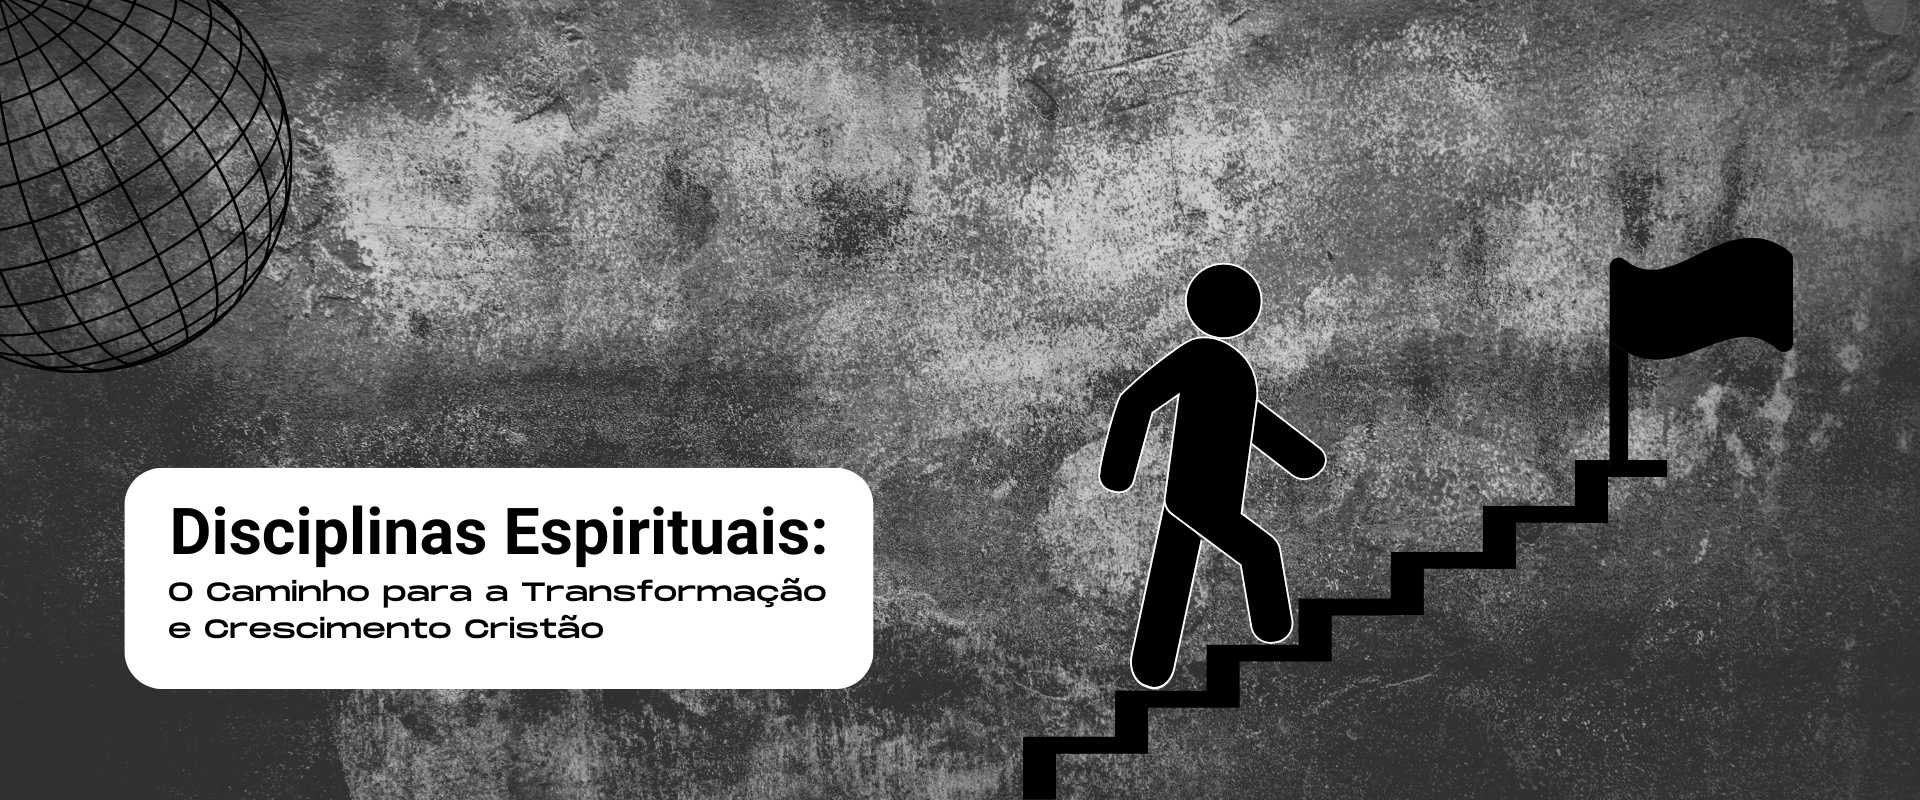
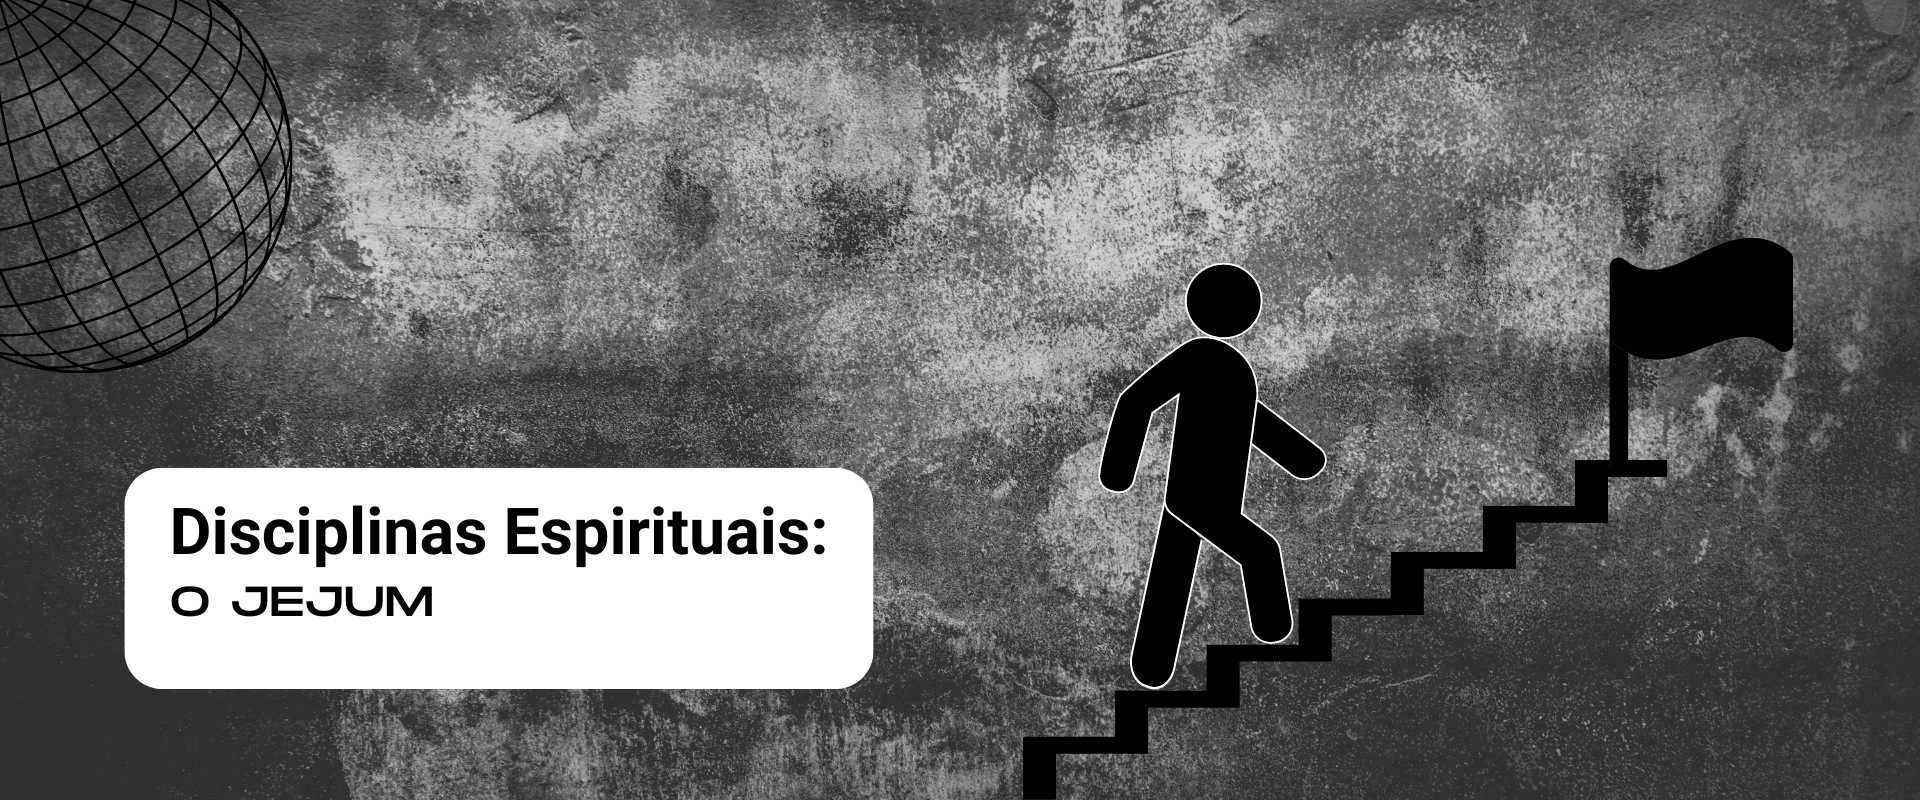
commit

Changed region(s): [[0.0938, 0.7188, 0.4375, 0.8125]]

diff --git a/dsp1/index.html b/dsp1/index.html
@@ -3,7 +3,7 @@
 <head>
     <meta charset="UTF-8">
     <meta name="viewport" content="width=device-width, initial-scale=1.0">
-    <title>Lição - 1</title>
+    <title>Lição - 3</title>
     <link rel="shortcut icon" href="../imagens/coracao.png" type="image/x-icon">
     <link rel="stylesheet" href="../stylemat.css">
 </head>
@@ -12,50 +12,10 @@
     <main class="mat">
         <div class="box-ancora-retorn"><a href="../materiais.html" class="ancora-voltar">&lt; Retornar</a></div>
         <div class="breaking"></div>
-        <h1 style="text-align: center;" class="mavie">Disciplinas Espirituais: O Caminho para a Transformação e Crescimento Cristão</h1>
+        <h1 style="text-align: center;" class="mavie">Disciplinas Espirituais: Jejum</h1>
         <h3 style="text-align: center;">16/09/2024</h3>
         <div class="box-img-material"><img src="arteDSP-1.jpg" alt="a" class="img-material"></div>
-        <p class="conteudo">
-            <h1 class="titulo">1 - Introdução</h1>
-        <p class="texto">
-            A superficialidade é maldição de nosso tempo. A doutrina da satisfação instantânea é, antes de tudo, um problema espiritual. 
-            A necessidade urgente hoje não é de um maior número de pessoas inteligentes, ou dotadas, mas de pessoas profundas. As Disciplinas 
-            da vida espiritual convidam-nos a passar do viver na superfície para o viver nas profundezas.
-        </p>
-        <p class="texto">
-            As Disciplinas Espirituais ou os Meios da Graça são os meios que Deus usa para nossa santificação. Para haver crescimento espiritual é 
-            necessário exercitarmos nosso espírito à conformidade do caráter de Jesus Cristo, nosso modelo.
-        </p>
-        <p class="texto">
-            Antes de mais nada, é importante entender que a disciplina não é um castigo e nem precisa ser um suplício. Afinal, quantas pessoas 
-            têm sido extremamente disciplinadas quanto à sua vida profissional, a fim de realizar seus objetivos particulares e de negócios? 
-            E por que boa parte dos cristãos encontram grande dificuldade para se esmerar em sua vida com Deus? Simples: a luta contra carne 
-            continua por aqui! Saiba, porém, que as Disciplinas Espirituais são um meio de graça que o Senhor nos deixou para crescermos em 
-            nosso relacionamento com Ele.
-        </p>
-        <p class="texto">
-            Na intenção de Deus, as Disciplinas espirituais são para seres humanos comuns: pessoas que têm empregos, que cuidam dos filhos, 
-            que lavam pratos e cortam grama. Na realidade, as Disciplinas são mais bem exercidas no meio de nossas atividades normais diárias. 
-            Se elas devem ter qualquer efeito transformador, o efeito deve encontrar-se nas conjunturas comuns da vida humana: em nossos 
-            relacionamentos com o marido ou com a esposa, com nossos irmãos e irmãs, ou com nossos amigos e vizinhos.
-        </p>
-        <p class="texto">
-            Ao tratarmos das disciplinas espirituais, não nos limitaremos a falar apenas sobre o que podemos fazer para desenvolver nosso espírito, 
-            mas sim tudo aquilo que rege as diversas áreas da nossa vida, como as finanças, a saúde, a parte profissional e também no que diz respeito 
-            ao nosso convívio familiar.
-        </p>
-        <p class="texto">
-            Isso quer dizer que disciplinas espirituais vão muito além do que simples práticas diárias nessa área. Por exemplo, sempre que pagamos as 
-            contas no prazo, estamos cumprindo com o compromisso ao qual nos dispomos. Como quando chegamos no horário estipulado ao nosso trabalho. 
-            Situações como essas mostram que somos responsáveis e que nos importamos com aquilo. Do mesmo modo, se Cristo nos deu uma nova forma de 
-            viver, temos que estar aptos para aceitar o desenvolvimento do Espírito Santo em nosso caráter.
-        </p>
-        <p class="texto">
-            Esse é o processo de metanóia do nosso homem interior que, ao ser guiado pela Palavra, começa agindo no espírito e depois no corpo e alma. 
-            Desta forma, se desprezamos a importância das disciplinas espirituais, ficamos impotentes para cumprir os propósitos que foram designados por 
-            Deus. É o Seu chamado para nós que permite experimentarmos uma vida abundante, preenchendo o grande vazio que existe em nosso coração.
-        </p>
-        </p>
+        <p class="conteudo"></p>
         <a href="../dsp.html" class="ancora-voltar">Voltar aos materiais</a>
     </main>
     <script src="../script.js"></script>

diff --git a/dsp.html b/dsp.html
@@ -261,7 +261,7 @@
                     <div class="div-imagem-material">
                         <img src="dsp1/arteDSP-1.jpg" alt="a" class="imagem-material">
                     </div>
-                    <h1 class="letras-recente">Lição - 1</h1>
+                    <h1 class="letras-recente">Lição - 3</h1>
                     <a href="dsp1/index.html" class="reflex-link-material">Leia Mais</a>
                 </div>
                 <!--<div class="box-material">
